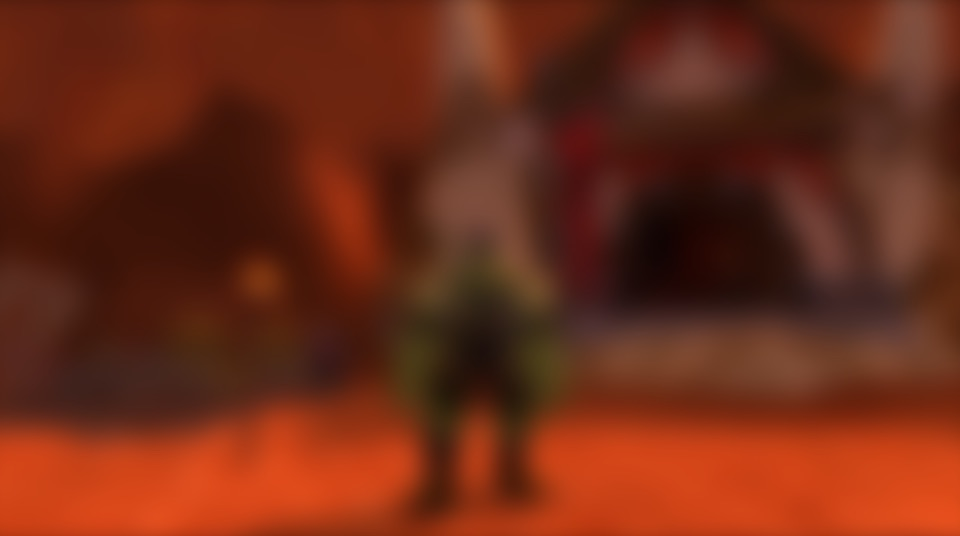
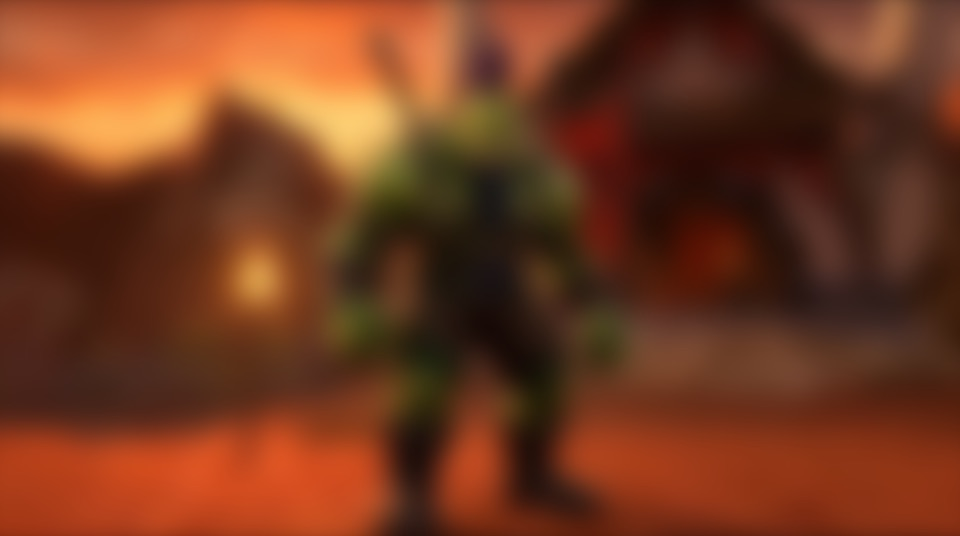
Melee Kitic: ispravljena fotka (portret, široki kadar, hero, cinematic), poster Intra i og slika

diff --git a/data.js b/data.js
@@ -111,7 +111,7 @@ window.HORDE = {
         biljeske: "Healer grupe. Kad kaže mana, svi stanu."
       } },
     { igrac: "Pero",    lik: "Melee Kitic",      klasa: "Warrior", rasa: "Orc",    uloga: "Melee DPS",  level: 0, foto: "assets/likovi/melee-kitic.jpg", boja: "#D9853B",
-      siroka: "assets/likovi/melee-kitic-wide.jpg", fokus: [49.8, 45.5],
+      siroka: "assets/likovi/melee-kitic-wide.jpg", fokus: [50.3, 28.8],
       gold: 0,
       zadaci: [
         { naziv: "Mining i Skinning naučiti čim izađeš iz Valley of Trials", od: 1, do: 10, gotovo: false },
